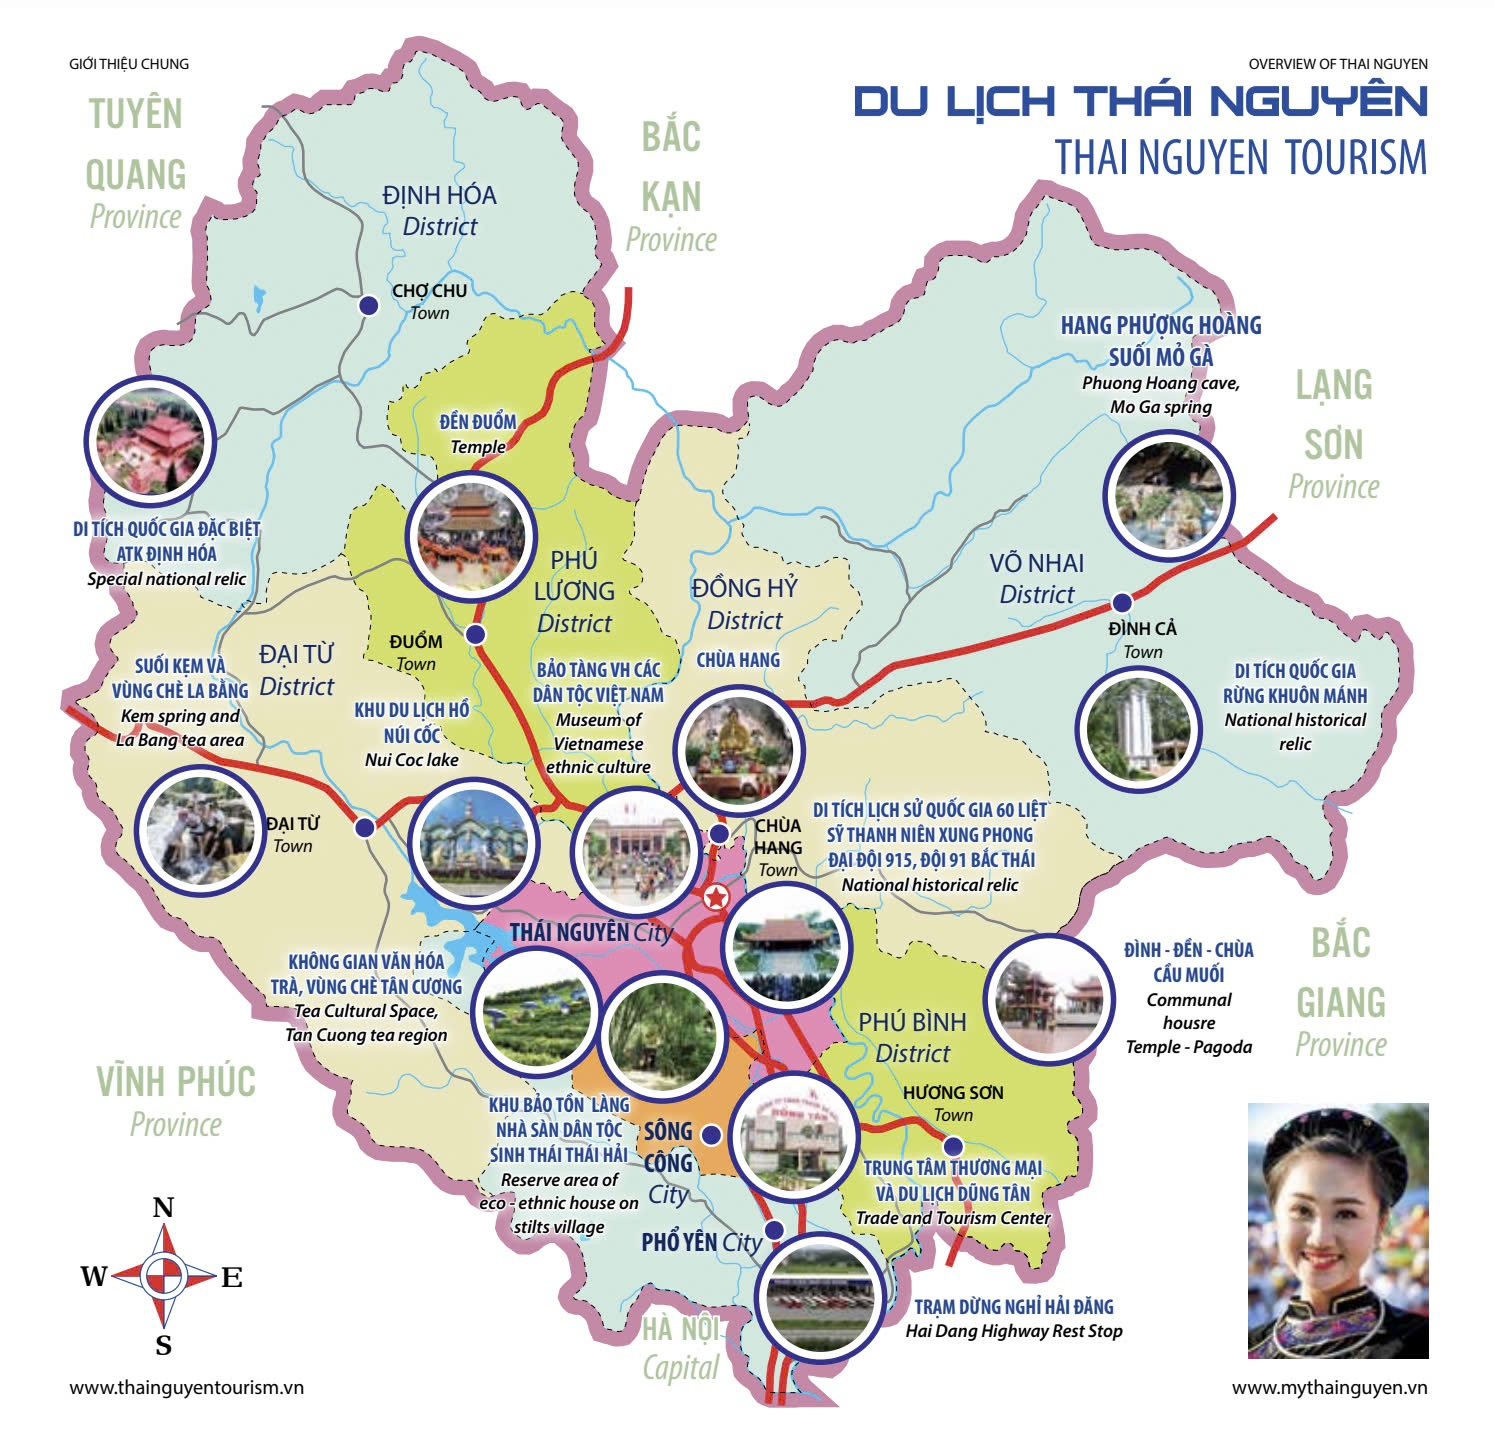
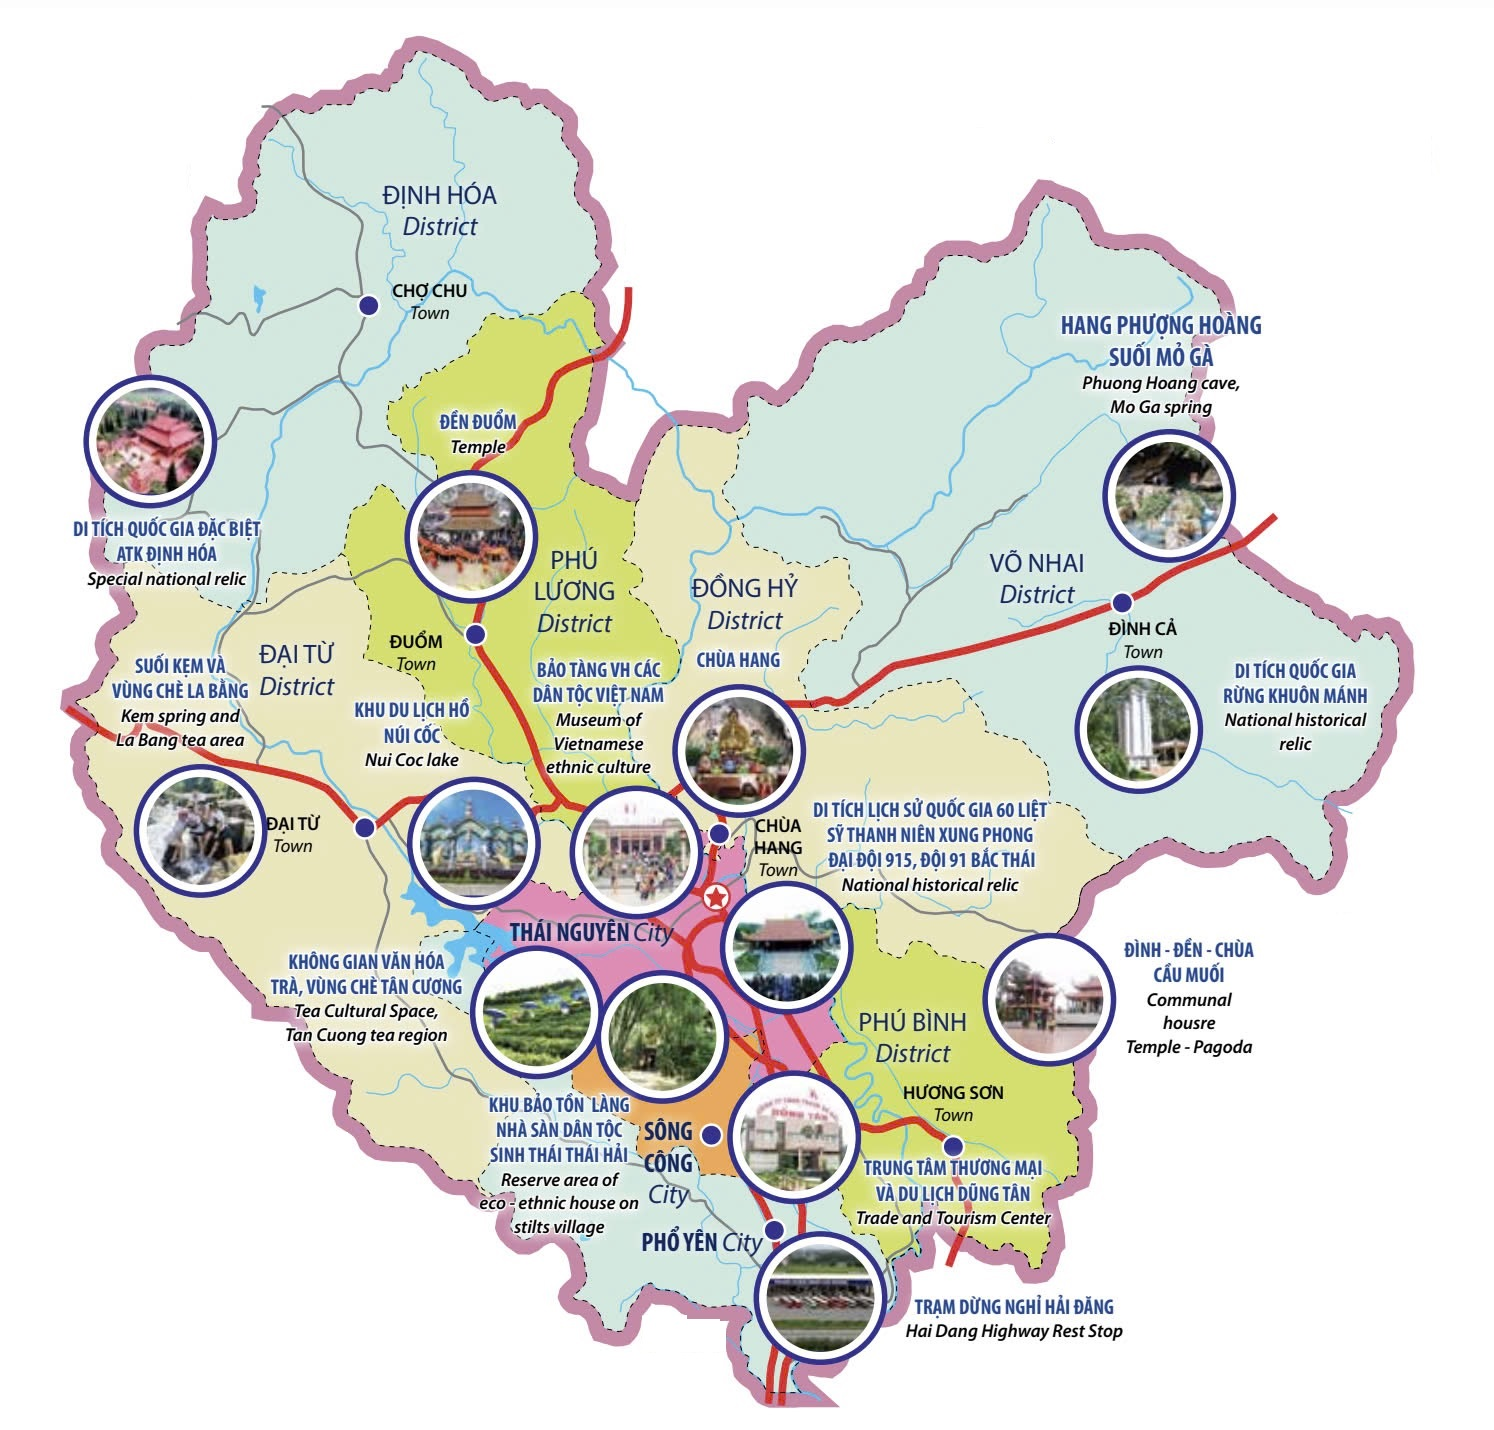
Fix bug

diff --git a/lib/home_screen.dart b/lib/home_screen.dart
@@ -1,67 +1,102 @@
+import 'dart:convert';
+import 'package:flutter/foundation.dart';
 import 'package:flutter/material.dart';
 import 'district_overlay.dart';
+import 'package:http/http.dart' as http;
+import 'package:flutter_dotenv/flutter_dotenv.dart';
 
-class HomeScreen extends StatelessWidget {
+class HomeScreen extends StatefulWidget {
   const HomeScreen({super.key});
 
   @override
-  Widget build(BuildContext context) {
-    double screenWidth = MediaQuery.of(context).size.width;
-    double screenHeight = MediaQuery.of(context).size.height;
+  State<HomeScreen> createState() => _HomeScreenState();
+}
 
+class _HomeScreenState extends State<HomeScreen> {
+  bool _ctrlPressed = false;
+  final _formKey = GlobalKey<FormState>();
+  final nameController = TextEditingController();
+  final messageController = TextEditingController();
+
+  bool get _isMobile {
+    return defaultTargetPlatform == TargetPlatform.iOS ||
+        defaultTargetPlatform == TargetPlatform.android;
+  }
+
+  @override
+  Widget build(BuildContext context) {
     return Scaffold(
       body: Center(
         child: SingleChildScrollView(
           child: Column(
             children: [
-              Container(
-                color: Colors.amber,
-                height: 500,
-                child: const Center(child: Text("PART 1")),
-              ),
+              getFirstArea(),
               Container(
                 color: Colors.red,
                 height: 500,
                 child: const Center(child: Text("PART 2")),
               ),
-              Container(
-                decoration: BoxDecoration(
-                  border: Border.all(
-                    color: Colors.green.withOpacity(0.4), // Border color
-                    width: 2, // Border width
-                  ),
-                  // borderRadius: BorderRadius.circular(15)
-                ),
-                // width: screenWidth,
-                // height: screenHeight * 0.5,
-                width: screenWidth * 0.7,
-                height: screenHeight,
-                child: LayoutBuilder(
-                  builder: (context, constraints) {
-                    final maxWidth = constraints.maxWidth;
-                    final maxHeight = constraints.maxHeight;
-                    return InteractiveViewer(
-                      maxScale: 5,
-                      minScale: 0.1,
-                      child: Stack(
-                        children: [
-                          Image.asset(
-                            'assets/map.jpeg',
-                            width: maxWidth > maxHeight ? maxWidth : null,
-                            height: maxWidth > maxHeight ? null : maxHeight,
-                            fit: BoxFit.fill,
-                          ),
-                          const DistrictOverlay(),
-                        ],
-                      ),
-                    );
-                  }
+              getThirdArea(),
+              getFourthArea(),
+              getFooter(),
+            ],
+          ),
+        ),
+      ),
+    );
+  }
+
+  Widget getFirstArea() {
+    return Container(
+      height: 900,
+      decoration: const BoxDecoration(
+        image: DecorationImage(
+          image: AssetImage('assets/main.png'),
+          fit: BoxFit.cover,
+          colorFilter: ColorFilter.mode(
+            Colors.black12, // dark overlay for better text contrast
+            BlendMode.darken,
+          ),
+        ),
+      ),
+      child: const Align(
+        alignment: Alignment.topCenter,
+        child: Padding(
+          padding: EdgeInsets.symmetric(horizontal: 24.0, vertical: 100.0),
+          child: Column(
+            crossAxisAlignment: CrossAxisAlignment.center,
+            children: [
+              Text(
+                "Thái Nguyên",
+                style: TextStyle(
+                  fontSize: 34,
+                  fontWeight: FontWeight.w900,
+                  color: Colors.black,
+                  shadows: [
+                    Shadow(
+                      offset: Offset(0.7, 0.7),
+                      blurRadius: 0,
+                      color: Colors.black,
+                    ),
+                  ],
                 ),
               ),
-              Container(
-                color: Colors.amber,
-                height: 500,
-                child: const Center(child: Text("PART 4")),
+              SizedBox(height: 10),
+              Text(
+                'Vùng Đất Trà, Văn Hóa và Cơ Hội',
+                style: TextStyle(fontSize: 20, height: 2),
+              ),
+              SizedBox(height: 30),
+              Text(
+                '''Khám phá đồi chè Tân Cương, Hồ Núi Cốc thơ mộng và di sản cách mạng đặc sắc.
+Trung tâm giáo dục, công nghiệp và đầu tư chiến lược phía Bắc.
+Hãy đến Thái Nguyên – nơi hội tụ thiên nhiên, con người và tiềm năng phát triển!''',
+                textAlign: TextAlign.center,
+                style: TextStyle(
+                  fontSize: 16,
+                  color: Colors.black,
+                  height: 1.5,
+                ),
               ),
             ],
           ),
@@ -69,4 +104,202 @@ class HomeScreen extends StatelessWidget {
       ),
     );
   }
+
+  Widget getThirdArea() {
+    return RawKeyboardListener(
+      focusNode: FocusNode()..requestFocus(),
+      onKey: (event) {
+        if (!_isMobile && event is RawKeyEvent) {
+          final ctrl = event.isControlPressed;
+          if (ctrl != _ctrlPressed) {
+            setState(() {
+              _ctrlPressed = ctrl;
+            });
+          }
+        }
+      },
+      child: Container(
+        color: Colors.white,
+        child: Column(
+          children: [
+            const SizedBox(height: 50),
+            const Align(
+              alignment: Alignment.topCenter,
+              child: Text(
+                "Bản đồ du lịch Thái Nguyên",
+                style: TextStyle(
+                  fontSize: 24,
+                  fontWeight: FontWeight.bold,
+                  color: Colors.black,
+                ),
+              ),
+            ),
+            const SizedBox(height: 50),
+            LayoutBuilder(
+              builder: (context, constraints) {
+                return AspectRatio(
+                  aspectRatio: 1 / 1, // You can change based on your map aspect
+                  child: InteractiveViewer(
+                    maxScale: 3,
+                    minScale: 1,
+                    scaleEnabled: _isMobile || _ctrlPressed,
+                    boundaryMargin: const EdgeInsets.all(80),
+                    child: Stack(
+                      children: [
+                        Positioned.fill(
+                          child: Image.asset(
+                            'assets/map.jpeg',
+                            fit: BoxFit.contain, // Keeps image proportions
+                          ),
+                        ),
+                        const DistrictOverlay(),
+                      ],
+                    ),
+                  ),
+                );
+              },
+            ),
+          ],
+        ),
+      ),
+    );
+  }
+
+  Widget getFourthArea() {
+    return Builder(
+      builder: (context) {
+        Future<void> sendFeedback() async {
+          if (_formKey.currentState!.validate()) {
+            final subject = "Đóng góp từ ${nameController.text}";
+            final body = messageController.text;
+            final email = dotenv.env['RESPONSE_MAIL'] ?? '';
+
+            var url = Uri.https('freeemailapi.vercel.app','/sendEmail/');
+            await http.post(
+                url,
+                headers: {'Content-Type': 'application/json'},
+                body: jsonEncode({"toEmail": email, "subject": subject, "body": body}),
+            );
+
+            setState(() {
+              nameController.text = '';
+              messageController.text = '';
+            });
+            ScaffoldMessenger.of(context).showSnackBar(
+              const SnackBar(content: Text('Gửi ý kiến thành công!')),
+            );
+          }
+        }
+
+        return Container(
+          padding: const EdgeInsets.symmetric(horizontal: 24.0, vertical: 48.0),
+          color: Colors.white,
+          width: double.infinity,
+          child: Center(
+            child: ConstrainedBox(
+              constraints: const BoxConstraints(maxWidth: 600),
+              child: Material(
+                elevation: 0,
+                color: Colors.white,
+                child: Form(
+                  key: _formKey,
+                  child: Column(
+                    crossAxisAlignment: CrossAxisAlignment.stretch,
+                    children: [
+                      const Text(
+                        'Gửi ý kiến đóng góp',
+                        style: TextStyle(
+                          fontSize: 24,
+                          fontWeight: FontWeight.bold,
+                          color: Colors.black,
+                        ),
+                        textAlign: TextAlign.center,
+                      ),
+                      const SizedBox(height: 24),
+                      TextFormField(
+                        controller: nameController,
+                        decoration: const InputDecoration(
+                          labelText: 'Tên của bạn',
+                          border: OutlineInputBorder(),
+                        ),
+                        validator: (value) => value == null || value.isEmpty
+                            ? 'Vui lòng nhập tên'
+                            : null,
+                      ),
+                      const SizedBox(height: 16),
+                      TextFormField(
+                        controller: messageController,
+                        maxLines: 5,
+                        decoration: const InputDecoration(
+                          labelText: 'Ý kiến của bạn',
+                          alignLabelWithHint: true,
+                          border: OutlineInputBorder(),
+                        ),
+                        validator: (value) => value == null || value.isEmpty
+                            ? 'Vui lòng nhập nội dung'
+                            : null,
+                      ),
+                      const SizedBox(height: 24),
+                      ElevatedButton.icon(
+                        onPressed: sendFeedback,
+                        style: ElevatedButton.styleFrom(
+                          padding: const EdgeInsets.symmetric(vertical: 16),
+                          backgroundColor: Colors.teal,
+                          shape: RoundedRectangleBorder(
+                            borderRadius: BorderRadius.circular(8),
+                          ),
+                        ),
+                        icon: const Icon(Icons.send, color: Colors.white,),
+                        label: const Text(
+                          'Gửi phản hồi',
+                          style: TextStyle(fontSize: 16, color: Colors.white),
+                        ),
+                      ),
+                    ],
+                  ),
+                ),
+              ),
+            ),
+          ),
+        );
+      },
+    );
+  }
+
+  Widget getFooter() {
+    final phone = dotenv.env['FOOTER_PHONE'] ?? '';
+    final mail = dotenv.env['FOOTER_MAIL'] ?? '';
+    return Container(
+      padding: const EdgeInsets.symmetric(vertical: 16.0),
+      color: Colors.grey[200], // Màu nền của footer
+      child: Column(
+        children: [
+          const Text(
+            'Liên hệ với chúng tôi',
+            style: TextStyle(
+              fontSize: 18,
+              fontWeight: FontWeight.bold,
+              color: Colors.black,
+            ),
+          ),
+          const SizedBox(height: 8, width: double.infinity,),
+          Text(
+            'Email: $mail',
+            style: const TextStyle(fontSize: 16, color: Colors.black),
+          ),
+          const SizedBox(height: 4),
+          Text(
+            "Số điện thoại: $phone",
+            style: const TextStyle(fontSize: 16, color: Colors.black),
+          ),
+          const SizedBox(height: 12),
+          // const Text(
+          //   '© 2025 Du Lịch Thái Nguyên. All rights reserved.',
+          //   style: TextStyle(fontSize: 14, color: Colors.black54),
+          // ),
+        ],
+      ),
+    );
+  }
+
 }

diff --git a/lib/district_overlay.dart b/lib/district_overlay.dart
@@ -35,9 +35,9 @@ class DistrictOverlay extends StatelessWidget {
           double heightRatio = maxHeight / baseHeight;
           return Stack(
             children: [
-              _buildDistrictArea(context, constraints, const Offset(0.095, 0.3), widthRatio, heightRatio, 'Di tích quốc gia đặc biệt ATK Định Hoá'),
+              _buildDistrictArea(context, constraints, const Offset(0.095, 0.32), widthRatio, heightRatio, 'Di tích quốc gia đặc biệt ATK Định Hoá'),
               _buildDistrictArea(context, constraints, const Offset(0.135, 0.57 ), widthRatio, heightRatio, 'Suối Kẹm và vùng chè La Bằng'),
-              _buildDistrictArea(context, constraints, const Offset(0.315 , 0.37), widthRatio, heightRatio, 'Đền Đuổm'),
+              _buildDistrictArea(context, constraints, const Offset(0.315 , 0.38), widthRatio, heightRatio, 'Đền Đuổm'),
               _buildDistrictArea(context, constraints, const Offset(0.317 , 0.585), widthRatio, heightRatio, 'Khu du lịch hồ Núi Cốc'),
               _buildDistrictArea(context, constraints, const Offset(0.357 , 0.7), widthRatio, heightRatio, 'Không gian văn hoá trà, vùng chè Tân Cương'),
               _buildDistrictArea(context, constraints, const Offset(0.425 , 0.585), widthRatio, heightRatio, 'Bảo tàng văn hoá các dân tộc Việt Nam'),
@@ -45,10 +45,10 @@ class DistrictOverlay extends StatelessWidget {
               _buildDistrictArea(context, constraints, const Offset(0.495 , 0.52), widthRatio, heightRatio, 'Chùa Hang'),
               _buildDistrictArea(context, constraints, const Offset(0.525 , 0.66), widthRatio, heightRatio, 'Di tích lịch sử quốc gia 60 liệt sỹ thanh niên xung phong đại đội 915, đội 91 Bắc Thái'),
               _buildDistrictArea(context, constraints, const Offset(0.53 , 0.79), widthRatio, heightRatio, 'Trung tâm thương mại và du lịch Dũng Tân'),
-              _buildDistrictArea(context, constraints, const Offset(0.55 , 0.9), widthRatio, heightRatio, 'Trạm dừng nghỉ Hải Đăng'),
+              _buildDistrictArea(context, constraints, const Offset(0.55 , 0.89), widthRatio, heightRatio, 'Trạm dừng nghỉ Hải Đăng'),
               _buildDistrictArea(context, constraints, const Offset(0.7 , 0.69), widthRatio, heightRatio, 'Đình-đền-chùa Cầu Muối'),
               _buildDistrictArea(context, constraints, const Offset(0.762 , 0.5), widthRatio, heightRatio, 'Di tích quốc gia rừng Khuôn Mánh'),
-              _buildDistrictArea(context, constraints, const Offset(0.782 , 0.34), widthRatio, heightRatio, 'Hang Phượng Hoàng, suối Mỏ Gà'),
+              _buildDistrictArea(context, constraints, const Offset(0.782 , 0.35), widthRatio, heightRatio, 'Hang Phượng Hoàng, suối Mỏ Gà'),
             ],
           );
         },
@@ -74,8 +74,8 @@ class DistrictOverlay extends StatelessWidget {
           child: Container(
             width: width,
             height: height,
-            color: Colors.green,
-            child: const Center(child: Icon(Icons.location_on, color: Colors.red)),
+            color: Colors.transparent,
+            child: const Center(child: Icon(Icons.location_on, color: Colors.transparent)),
           ),
         ),
       ),
